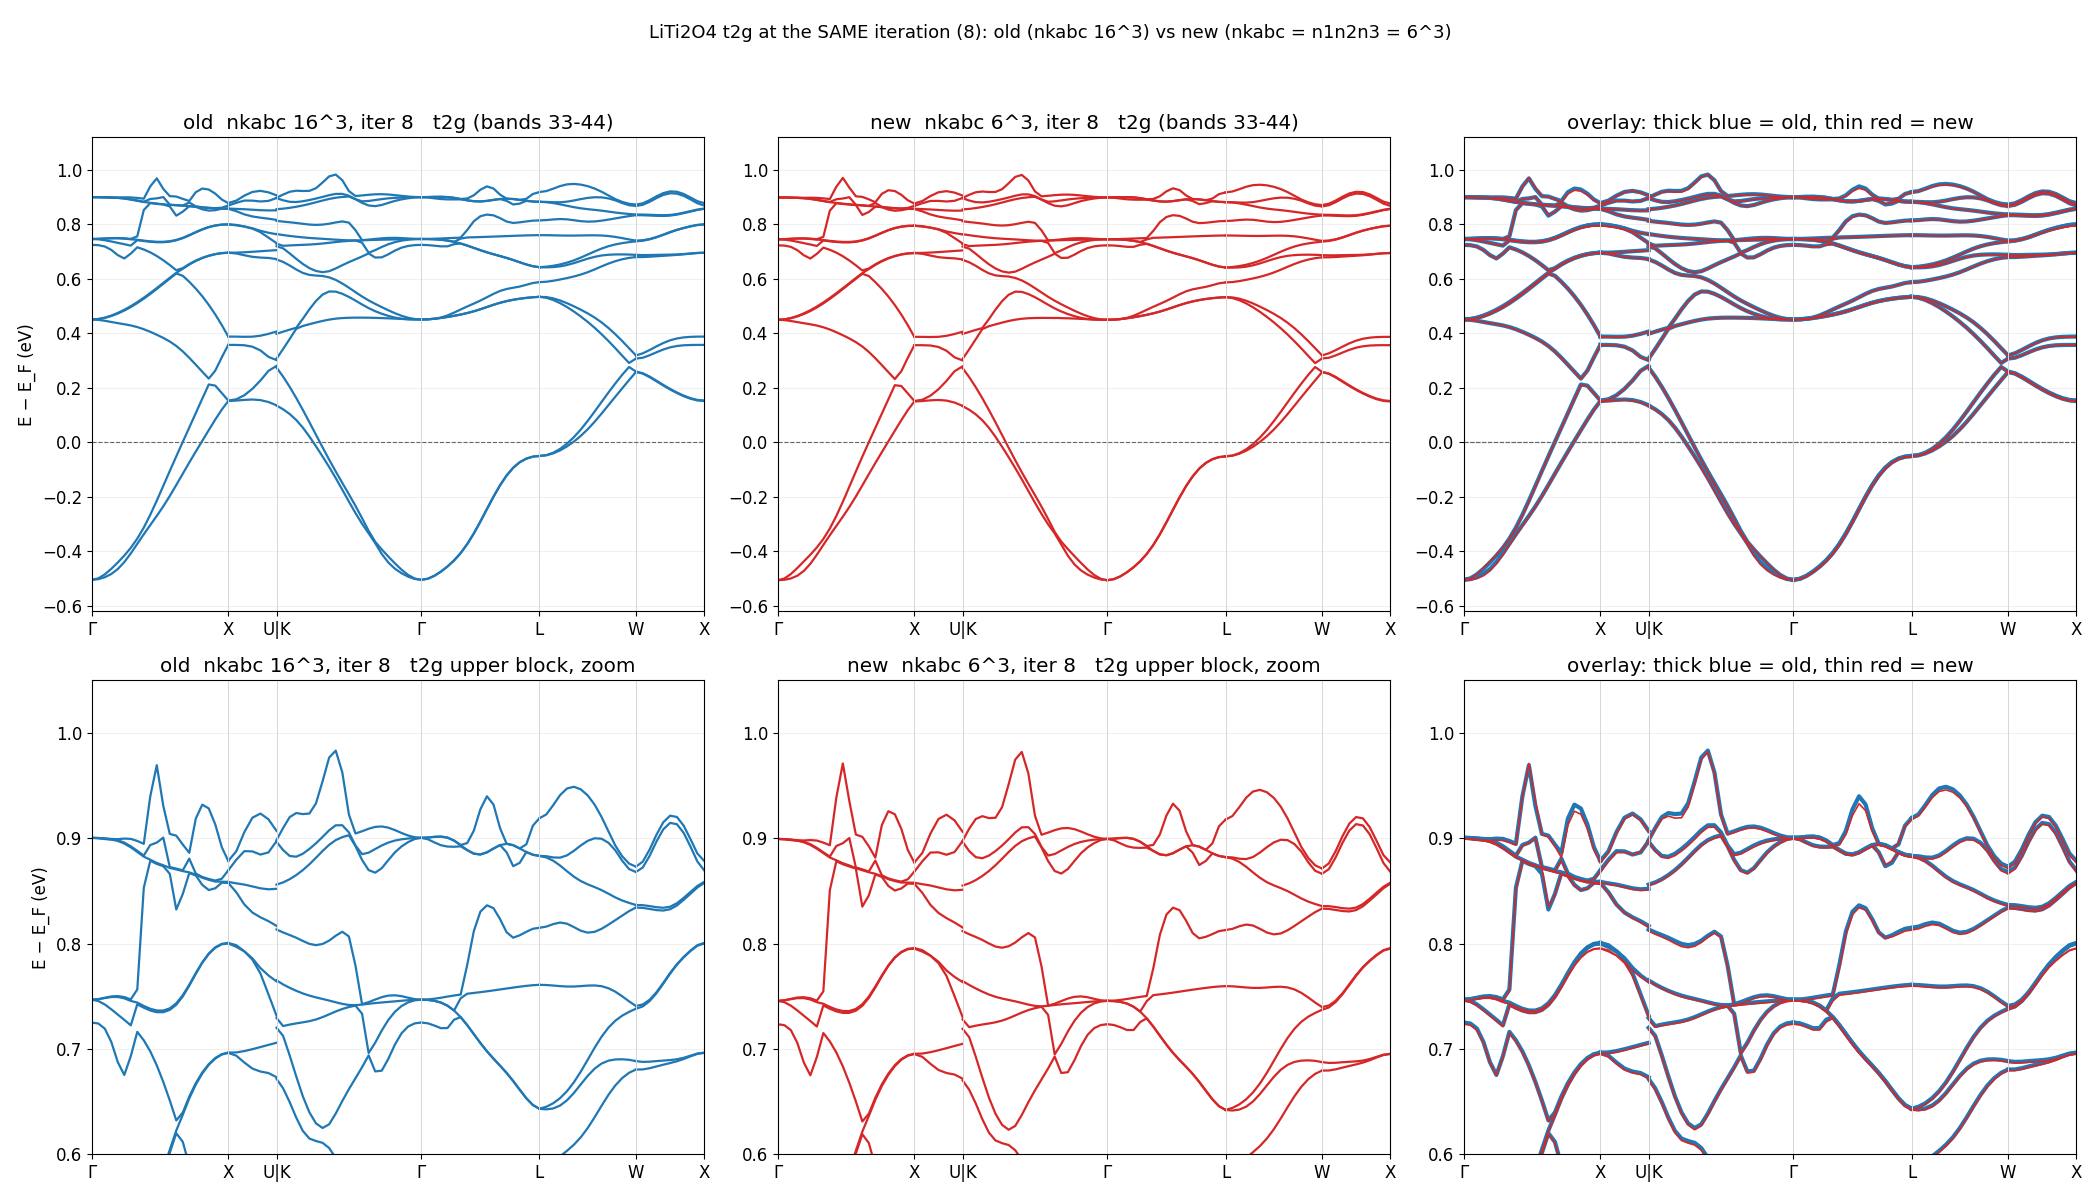
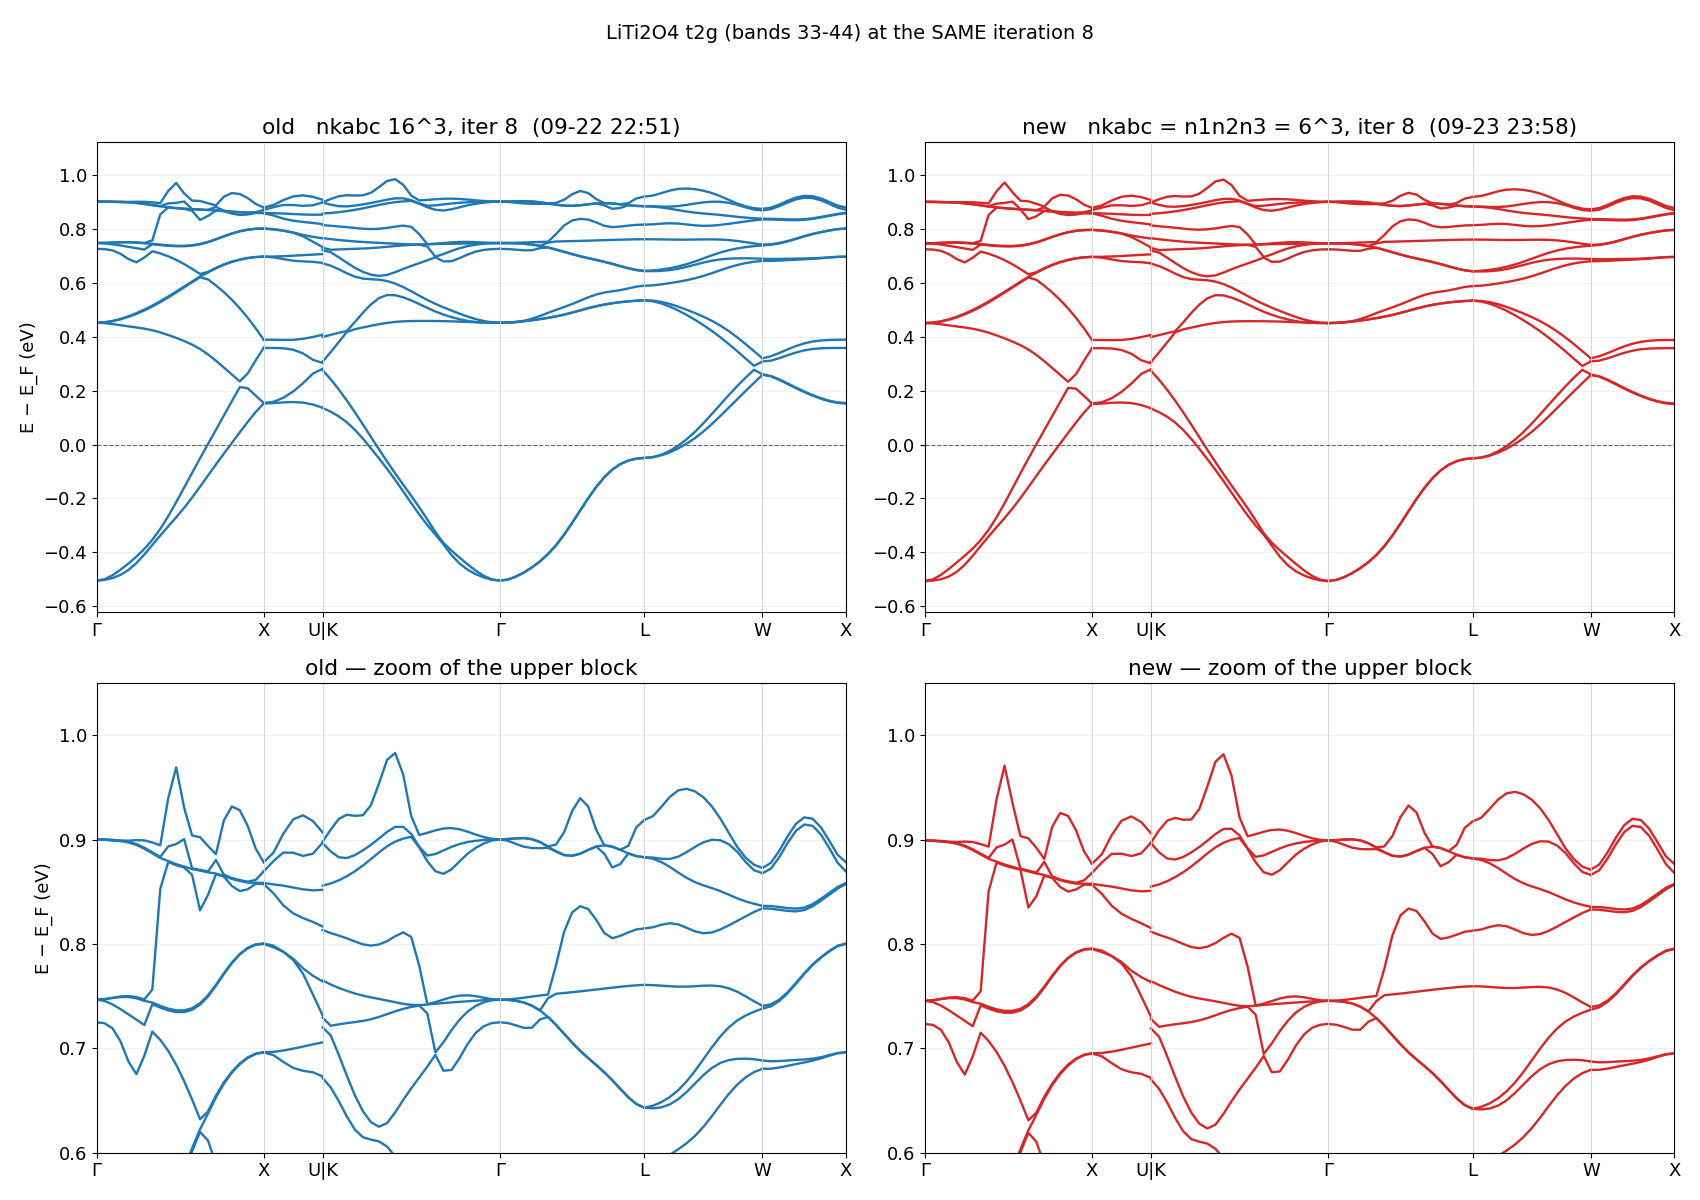
kBT: t2g comparison side by side without the overlay panel

diff --git a/Samples/kBT/kBT_research.md b/Samples/kBT/kBT_research.md
@@ -336,8 +336,8 @@ kt1 側に commit（`183ac817f`）してから再ビルド。
 **同じ反復回数での比較**（user 04:20）:
 
 ![same iteration](LiTi2O4/plots/t2g_same_iteration.png)
-*図 20:49-3*  反復 8 どうし、t2g/eg。上段 = 全体（−0.62〜1.12 eV）、下段 = **上部ブロックの拡大（0.60〜1.05 eV）**。
-左 旧（nkabc 16³）/ 中 新（nkabc = 6³）/ 右 重ね描き（太青 = 旧、細赤 = 新）
+*図 20:49-3*  反復 8 どうしの t2g（バンド 33–44）。左 旧（nkabc 16³）/ 右 新（nkabc = 6³）、
+上段 = 全体（−0.62〜1.12 eV）、下段 = **上部ブロックの拡大（0.60〜1.05 eV）**
 
 *表 20:49-7*  t2g の荒れ（2 階差分 平均 / max、全対称線）
 
@@ -347,7 +347,7 @@ kt1 側に commit（`183ac817f`）してから再ビルド。
 | 新 iter 8 | 4.33 / 55.3 | 3.56 / 87.2 | 3.69 / 87.2 |
 
 **区別がつかない。** 拡大図で見ると、Γ–X の 0.97 eV のスパイク、U|K の 0.98 eV、L–W の 0.94 eV など
-**凸凹の位置も高さも新旧で同一**。重ね描きでどの枝も分離しない。
+**凸凹の位置も高さも新旧で同一**。
 
 user「old のほうがバンドの底でスムーズに見える」→ O 2p を並べて確認（04:30）:
 
